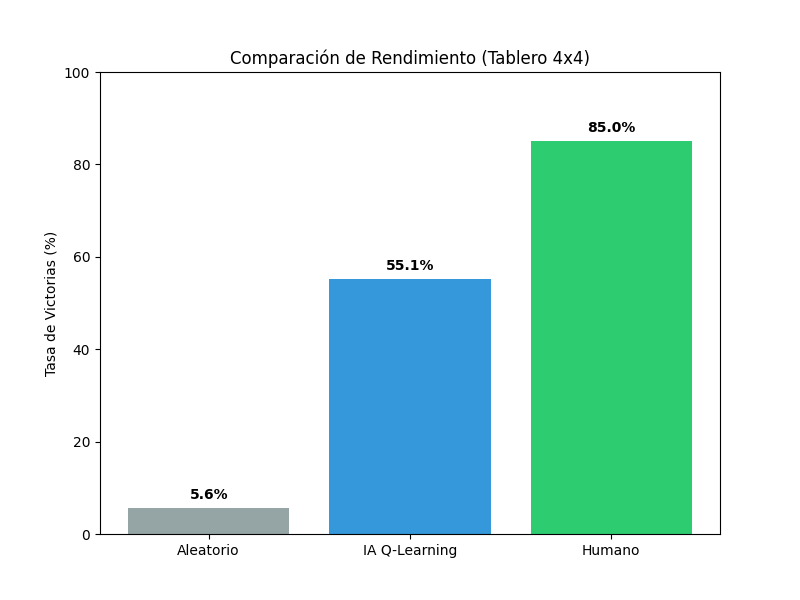
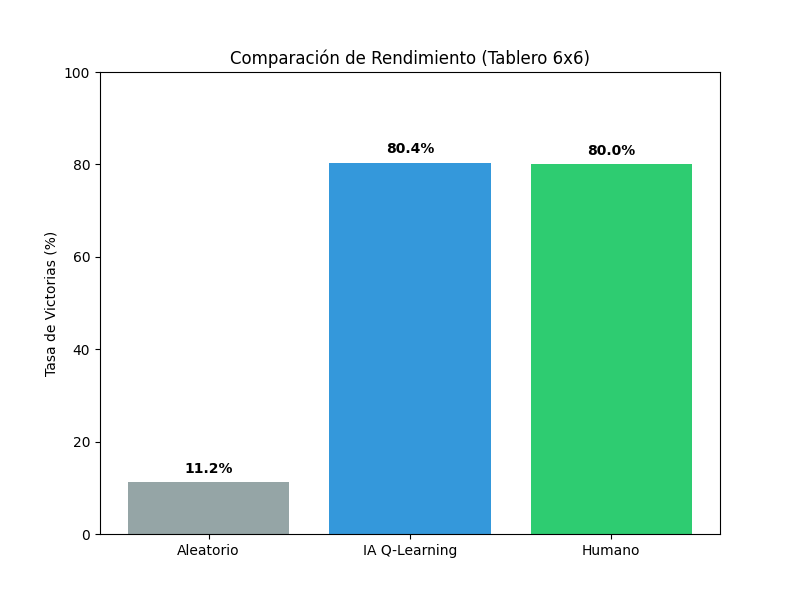
Actualización script de visualización agente

diff --git a/ver_agente.py b/ver_agente.py
@@ -1,93 +1,124 @@
 # ver_agente.py
 import tkinter as tk
-import time
-from juego_model import Tablero
-from interfaz_gui import MinesweeperGUI
-from agente import AgenteQLearning
+from juego_model import Tablero, STATE_FLAGGED
+from interfaz_gui import MinesweeperGUI, BTN_CLICK
+from agente import AgenteQLearningAproximado 
 
 # --- CONFIGURACIÓN ---
-# ¡IMPORTANTE! Debe ser el MISMO tamaño usado en el entrenamiento (ej. 4)
 SIZE = 6       
-MINAS_RATIO = 0.2
-VELOCIDAD = 500  # Milisegundos entre cada movimiento (500ms = 0.5 seg)
+MINAS_RATIO = 0.15 
+VELOCIDAD = 500  # Tiempo de espera entre acciones (ms)
 
 class AgenteGUI(MinesweeperGUI):
-    """
-    Versión modificada de la GUI que permite al agente jugar automáticamente.
-    """
     def __init__(self, root, tablero, agente):
         super().__init__(root, tablero)
         self.agente = agente
         self.jugando_auto = False
 
     def iniciar_demo(self):
-        """Arranca el bucle del agente."""
         self.jugando_auto = True
         self.siguiente_movimiento()
 
     def siguiente_movimiento(self):
-        """Pide al agente una acción y la ejecuta en la GUI."""
+        """Ciclo principal de decisión del agente."""
         if not self.jugando_auto or self.tablero.juego_terminado:
             return
 
-        # 1. Obtener estado actual del tablero
+        # 1. Obtener estado
         estado = self.tablero.get_estado_hashable()
         
-        # 2. Desactivar exploración temporalmente (modo 'Explotación')
-        epsilon_original = self.agente.epsilon
+        # 2. Elegir acción (sin exploración)
+        epsilon_prev = self.agente.epsilon
         self.agente.epsilon = 0 
-        
-        # 3. El agente decide coordenadas (x, y)
         x, y = self.agente.elegir_accion(estado)
+        self.agente.epsilon = epsilon_prev
         
-        # Restaurar epsilon
-        self.agente.epsilon = epsilon_original
-
-        # 4. Imprimir en consola qué decidió (opcional)
         print(f"🤖 Agente decide click en: ({x}, {y})")
 
-        # 5. Ejecutar el click en la GUI
-        # Llamamos directamente al método onClick de la clase padre
+        # 3. Ejecutar Click
         self.onClick(x, y)
 
-        # 6. Programar el siguiente paso si el juego sigue vivo
-        if not self.tablero.juego_terminado:
+        if self.tablero.juego_terminado:
+            return
+
+        # --- LÓGICA DE AUTO-FLAG ANIMADA ---
+        
+        # A. Detectar qué banderas YA existían antes del auto-flag
+        banderas_previas = set()
+        for i in range(self.tablero.size_x):
+            for j in range(self.tablero.size_y):
+                if self.tablero.get_celda(i, j).estado == STATE_FLAGGED:
+                    banderas_previas.add((i, j))
+
+        # B. Ejecutar la lógica interna (el modelo se actualiza instantáneamente)
+        self.tablero._auto_flag()
+
+        # C. Detectar cuáles son las NUEVAS banderas
+        nuevas_banderas = []
+        for i in range(self.tablero.size_x):
+            for j in range(self.tablero.size_y):
+                celda = self.tablero.get_celda(i, j)
+                if celda.estado == STATE_FLAGGED and (i, j) not in banderas_previas:
+                    nuevas_banderas.append((i, j))
+
+        # D. Si hay nuevas banderas, iniciar animación. Si no, seguir jugando.
+        if nuevas_banderas:
+            # Esperar un turno antes de empezar a poner banderas
+            self.root.after(VELOCIDAD, lambda: self.animar_banderas(nuevas_banderas))
+        else:
             self.root.after(VELOCIDAD, self.siguiente_movimiento)
 
+    def animar_banderas(self, lista_banderas):
+        """
+        Función recursiva que pone una bandera, espera, y llama a la siguiente.
+        """
+        if not lista_banderas or self.tablero.juego_terminado:
+            # Si se acabaron las banderas, volvemos al bucle principal del agente
+            self.siguiente_movimiento()
+            return
+
+        # Sacar la siguiente coordenada de la lista
+        x, y = lista_banderas.pop(0)
+        
+        # Actualizar visualmente esa celda específica
+        print(f"🚩 Auto-Flag en: ({x}, {y})")
+        self.actualizar_boton(x, y)
+        self.refreshLabels()
+        
+        # Desvincular el clic (seguridad)
+        try:
+            self.botones[x][y].unbind(BTN_CLICK)
+        except:
+            pass
+
+        # Programar la siguiente bandera con el retraso VELOCIDAD
+        self.root.after(VELOCIDAD, lambda: self.animar_banderas(lista_banderas))
+
     def restart(self):
-        """Sobrescribimos reiniciar para que el agente siga jugando tras el Game Over."""
         super().restart()
         if self.jugando_auto:
-            # Esperar un poco antes de empezar la nueva partida
             self.root.after(1000, self.siguiente_movimiento)
 
 def main():
-    # 1. Configurar Ventana
     root = tk.Tk()
     root.title(f"Demo Agente Buscaminas ({SIZE}x{SIZE})")
 
-    # 2. Inicializar Tablero y Agente
+    # Inicializar
     tablero = Tablero(SIZE, SIZE, MINAS_RATIO)
-    acciones_posibles = [(x, y) for x in range(SIZE) for y in range(SIZE)]
+    acciones = [(x, y) for x in range(SIZE) for y in range(SIZE)]
+    agente = AgenteQLearningAproximado(actions=acciones)
     
-    agente = AgenteQLearning(actions=acciones_posibles)
-    
-    # 3. Cargar Cerebro
-    nombre_archivo = "mi_agente_entrenado.pkl"
+    # Cargar
     try:
-        agente.cargar_agente(nombre_archivo)
-        print(f"✅ {nombre_archivo} cargado exitosamente.")
-    except FileNotFoundError:
-        print(f"❌ ERROR: No se encontró '{nombre_archivo}'.")
-        print("   Asegúrate de ejecutar 'entrenar.py' primero.")
+        agente.cargar_agente("mi_agente_entrenado.pkl")
+        print("✅ Agente cargado.")
+    except:
+        print("❌ Error cargando agente.")
         return
 
-    # 4. Iniciar la GUI Especial
+    # Correr
     app = AgenteGUI(root, tablero, agente)
-    
-    # Darle 1 segundo al usuario para ver la ventana antes de empezar
     root.after(1000, app.iniciar_demo)
-
     root.mainloop()
 
 if __name__ == "__main__":

diff --git a/evaluar.py b/evaluar.py
@@ -3,12 +3,12 @@ import random
 import matplotlib.pyplot as plt
 import numpy as np
 from juego_model import Tablero, REWARDS
-from agente import AgenteQLearning
+from agente import AgenteQLearningAproximado
 
 # --- CONFIGURACIÓN DE EVALUACIÓN ---
 CANTIDAD_PARTIDAS = 1000  # Cantidad de pruebas por jugador
 SIZE = 6                  # ¡Debe ser el mismo tamaño del entrenamiento!
-MINAS_RATIO = 0.2
+MINAS_RATIO = 0.15
 
 # --- AGENTE ALEATORIO (BASELINE) ---
 class AgenteAleatorio:
@@ -68,7 +68,7 @@ def ejecutar_prueba(nombre, agente, n_partidas):
 def main():
     # 1. Cargar Agente Entrenado
     acciones = [(x, y) for x in range(SIZE) for y in range(SIZE)]
-    agente_ia = AgenteQLearning(actions=acciones)
+    agente_ia = AgenteQLearningAproximado(actions=acciones)
     try:
         agente_ia.cargar_agente("mi_agente_entrenado.pkl")
         print(">> IA Cargada Exitosamente.")
@@ -85,8 +85,8 @@ def main():
 
     # 4. Datos Humanos (Simulados o ingresa los tuyos reales aquí)
     # Si juegas 10 partidas y ganas 8, pon 80.0
-    win_human = 85.0  
-    pasos_human = 5.0 
+    win_human = 80.0  
+    pasos_human = 9.0 
 
     # 5. Mostrar Tabla
     print("\n" + "="*60)

diff --git a/agente.py b/agente.py
@@ -131,3 +131,14 @@ class AgenteQLearningAproximado:
         import pickle
         with open(filename, "wb") as f:
             pickle.dump(self.weights, f)
+    
+    def cargar_agente(self, filename="agente_linear.pkl"):
+        import pickle
+        try:
+            with open(filename, "rb") as f:
+                self.weights = pickle.load(f)
+            print(f"Modelo cargado exitosamente desde {filename}")
+        except FileNotFoundError:
+            print(f"No se encontró el archivo {filename}. Se continuará con pesos iniciales.")
+        except Exception as e:
+            print(f"Error al cargar el agente: {e}")
